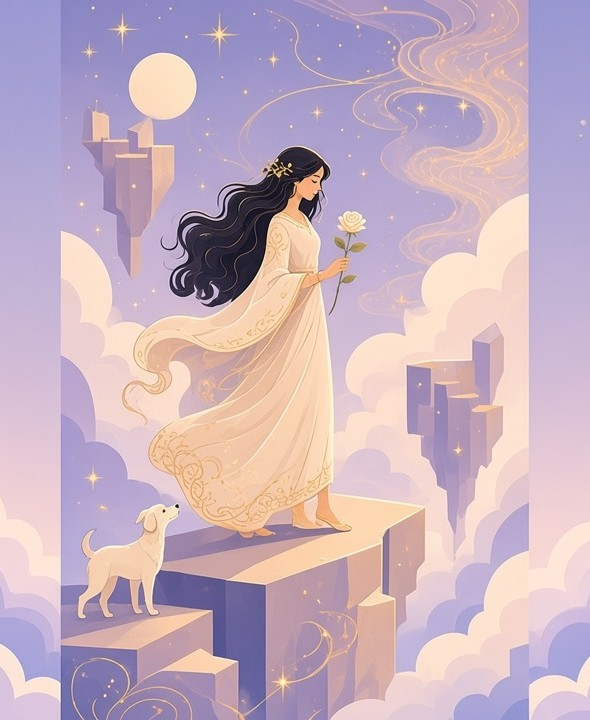
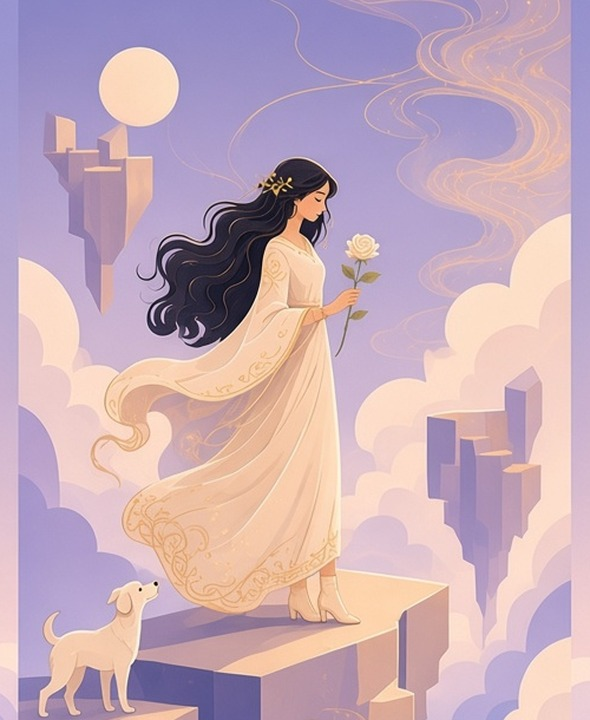
Replace Fool/Sun/Lovers art with confirmed fixes; simplify reveal page layout

diff --git a/public/styles.css b/public/styles.css
@@ -435,3 +435,13 @@ button{font:inherit;color:inherit;border:0;background:none;cursor:pointer;paddin
 .act-list p{margin:0;font-size:14px;line-height:1.7;color:var(--ink,#3a3466)}
 .manifest-meaning{margin:0 0 8px;text-align:center;font-size:13.5px;line-height:1.7;color:var(--ink-2,#5f5a8c)}
 .manifest-meaning b{color:var(--gold-3,#a8823f);letter-spacing:.1em}
+
+/* reveal: simplified layout — title → card → text → tabs → button */
+.rv-backdrop,.rv-arrow,.rv-hint{display:none!important}
+.rv-track{padding:0!important;gap:0!important}
+.rv-slide{flex:0 0 100%!important;opacity:1!important;transform:none!important;padding:0 28px;box-sizing:border-box}
+.rv-panel{background:none!important;box-shadow:none!important;border:0!important;margin-top:18px;padding:0;color:#fff}
+.rv-panel .rv-pos{color:#ffe7b0;text-shadow:0 1px 6px rgba(40,30,100,.7)}
+.rv-panel .rv-meaning,.rv-panel .rv-relate{color:#fff;text-shadow:0 1px 3px rgba(40,30,100,.85),0 0 14px rgba(50,40,120,.6)}
+.rv-panel .rv-relate{border:0;margin:0 0 0 .3em;padding:0;font:inherit;display:inline}
+.rv-panel .rv-meaning{font-weight:600;text-shadow:0 1px 2px rgba(30,22,80,.95),0 0 8px rgba(40,30,100,.85),0 0 18px rgba(40,30,100,.6)}

diff --git a/public/app.js b/public/app.js
@@ -686,10 +686,9 @@ function renderReveal() {
   $('#rvTrack').innerHTML = S.cards.map((c, i) => `
     <div class="rv-slide">
       <div class="rv-card"><span class="sparkle-top">✦</span><div class="flip-card flipped">${flipCardHtml(c)}</div></div>
-      <div class="rv-panel panel">
+      <div class="rv-panel">
         <div class="rv-pos">${POS[i].roman} · ${POS[i].cn}　${c.roman} ${c.cn}</div>
-        <p class="rv-meaning typing">${typeSpans(c[POS[i].key])}</p>
-        <p class="rv-relate"><span class="tag">与你的问题</span><span>${relateLine(c)}</span></p>
+        <p class="rv-meaning typing">${typeSpans(c[POS[i].key])}<span class="rv-relate">${relateLine(c)}</span></p>
       </div>
     </div>`).join('');
   requestAnimationFrame(() => rvCar.reset());
